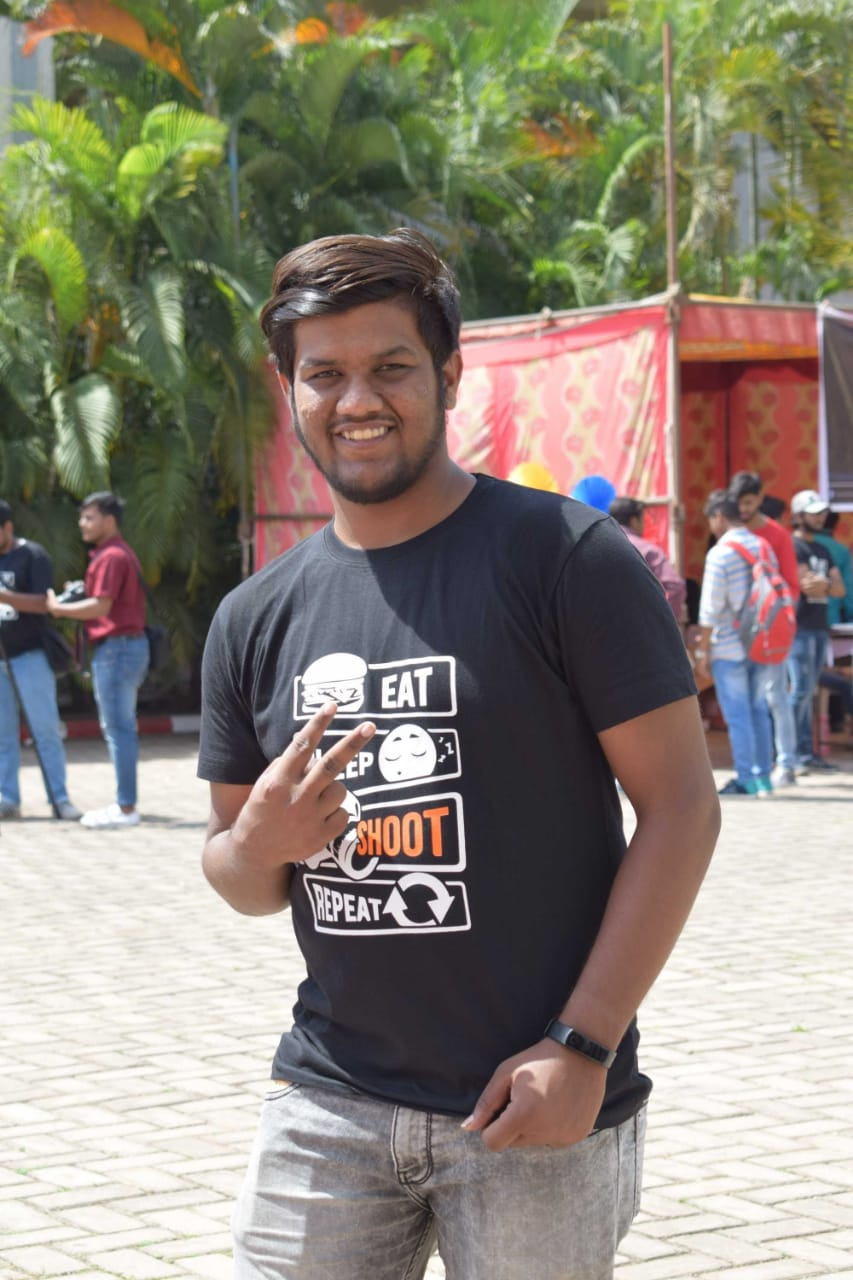
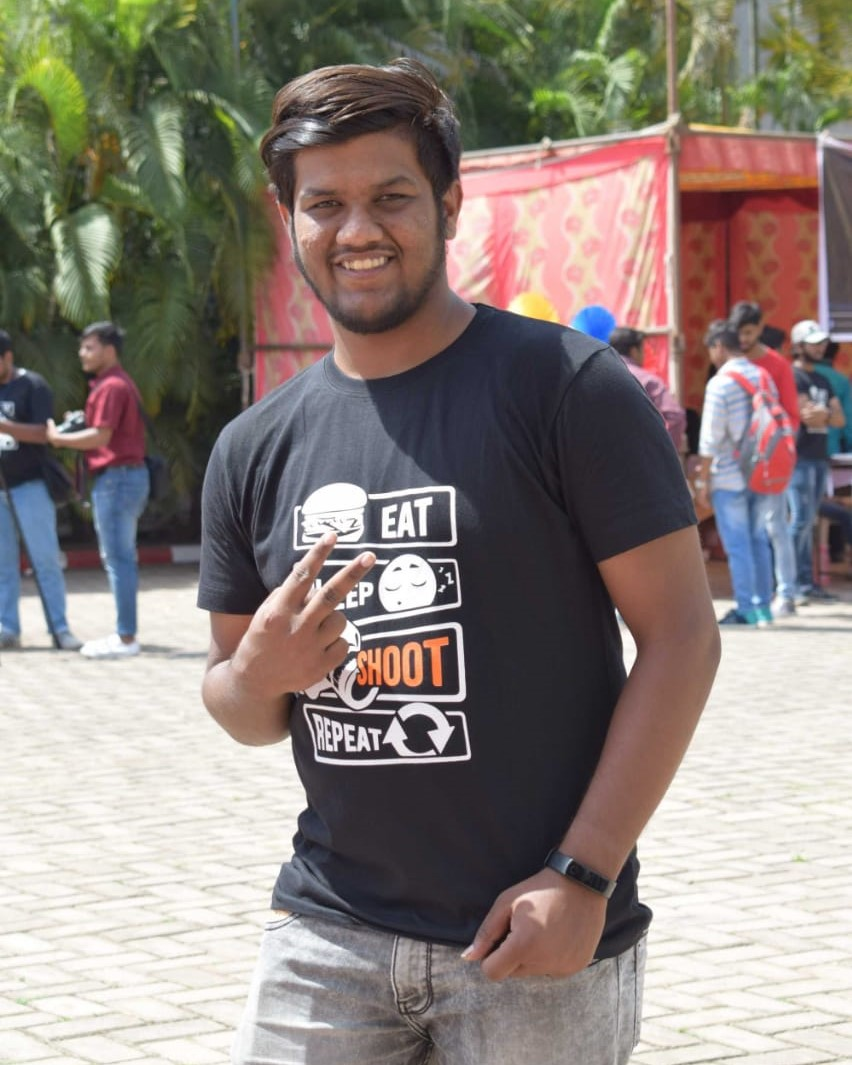
made images responsive of about component

diff --git a/src/components/AboutUsComponents/AboutUsComponent.js b/src/components/AboutUsComponents/AboutUsComponent.js
@@ -38,7 +38,7 @@ function About(props) {
               <img
                 src="assets/images/logo.png"
                 height="150"
-                width="280"
+                width="260"
                 alt="Technohub"
               />
             </div>
@@ -72,9 +72,8 @@ function About(props) {
             <div className="col-lg-4 col-sm-6">
               <img
                 src="assets/images/aboutus_img/DSC_2055.jpg"
+                className="img-fluid" 
                 alt=""
-                height="400px"
-                width="350px"
               />
 
               <div className="single_industries_text">
@@ -94,8 +93,7 @@ function About(props) {
               <img
                 src="assets/images/aboutus_img/DSC_0733_3.jpg"
                 alt="Sachet Sabarad"
-                height="400px"
-                width="350px"
+                className="img-fluid"
               />
 
               <div className="single_industries_text">
@@ -124,8 +122,8 @@ function About(props) {
                 <img
                   src="assets/images/aboutus_img/shub.jpeg"
                   alt="Shubham Agrawal"
-                  height="400px"
-                  width="350px"
+                  className="img-fluid" 
+                U
                 />
                 <div className="single_industries_text">
                   <h3>Shubham Agrawal</h3>
@@ -140,8 +138,8 @@ function About(props) {
                 <img
                   src="assets/images/aboutus_img/harsha.jpeg"
                   alt="Harsha Dubey"
-                  height="400px"
-                  width="350px"
+                  className="img-fluid" 
+                U
                 />
                 <div className="single_industries_text">
                   <h3>Harsha Dubey</h3>
@@ -169,8 +167,8 @@ function About(props) {
                 <img
                   src="assets/images/aboutus_img/nir.jpeg"
                   alt="Nirbhay Kumar"
-                  height="400px"
-                  width="350px"
+                  className="img-fluid" 
+                U
                 />
                 <div className="single_industries_text">
                   <h3>Nirbhay Kumar</h3>
@@ -186,8 +184,8 @@ function About(props) {
                 <img
                   src="assets/images/aboutus_img/Saisha.jpeg"
                   alt="T Saisha"
-                  height="400px"
-                  width="350px"
+                  className="img-fluid" 
+                U
                 />
                 <div className="single_industries_text">
                   <h3>T Saisha</h3>
@@ -202,8 +200,8 @@ function About(props) {
                 <img
                   src="assets/images/aboutus_img/Darshita1.jpeg"
                   alt="Darshita Mahaski"
-                  height="400px"
-                  width="350px"
+                  className="img-fluid" 
+                U
                 />
                 <div className="single_industries_text">
                   <h3>Darshita Mahaski</h3>
@@ -218,8 +216,8 @@ function About(props) {
                 <img
                   src="assets/images/aboutus_img/rishabh.jpeg"
                   alt="Rishabh Deshmukh"
-                  height="400px"
-                  width="350px"
+                  className="img-fluid" 
+                U
                 />
                 <div className="single_industries_text">
                   <h3>Rishabh Deshmukh</h3>
@@ -249,8 +247,8 @@ function About(props) {
                 <img
                   src="assets/images/aboutus_img/agney.jpg"
                   alt="Agney Deshkar"
-                  height="400px"
-                  width="350px"
+                  className="img-fluid" 
+                U
                 />
                 <div className="single_industries_text">
                   <h3>Agney Deshkar</h3>
@@ -280,8 +278,8 @@ function About(props) {
                 <img
                   src="assets/images/aboutus_img/shubharangshu.jpg"
                   alt="Shubharangshu"
-                  height="400px"
-                  width="350px"
+                  className="img-fluid" 
+                U
                 />
                 <div className="single_industries_text">
                   <h3>Shubharangshu Chakraborty </h3>
@@ -297,8 +295,8 @@ function About(props) {
                 <img
                   src="assets/images/aboutus_img/arpit.jpg"
                   alt="Arpit Sahu"
-                  height="400px"
-                  width="350px"
+                  className="img-fluid" 
+                U
                 />
                 <div className="single_industries_text">
                   <h3>Arpit Sahu </h3>
@@ -314,8 +312,8 @@ function About(props) {
                 <img
                   src="assets/images/aboutus_img/Suchi.jpg"
                   alt="Shuchi Agrawal"
-                  height="400px"
-                  width="350px"
+                  className="img-fluid" 
+                U
                 />
                 <div className="single_industries_text">
                   <h3>Shuchi Agrawal</h3>
@@ -331,8 +329,8 @@ function About(props) {
                 <img
                   src="assets/images/aboutus_img/kartikey.jpg"
                   alt=""
-                  height="400px"
-                  width="350px"
+                  className="img-fluid" 
+                U
                 />
                 <div className="single_industries_text">
                   <h3>Kartikey Rawat </h3>
@@ -361,8 +359,8 @@ function About(props) {
                 <img
                   src="assets/images/aboutus_img/aditya.jpg"
                   alt=""
-                  height="400px"
-                  width="350px"
+                  className="img-fluid" 
+                U
                 />
                 <div className="single_industries_text">
                   <h3>Aditya Deshmukh </h3>
@@ -377,8 +375,8 @@ function About(props) {
                 <img
                   src="assets/images/aboutus_img/nitesh.jpg"
                   alt=""
-                  height="400px"
-                  width="350px"
+                  className="img-fluid" 
+                U
                 />
                 <div className="single_industries_text">
                   <h3>Nitesh Bharti</h3>
@@ -393,8 +391,8 @@ function About(props) {
                 <img
                   src="assets/images/aboutus_img/abhishek.jpg"
                   alt=""
-                  height="400px"
-                  width="350px"
+                  className="img-fluid" 
+                U
                 />
                 <div className="single_industries_text">
                   <h3>Abhishek Agrawal</h3>
@@ -409,8 +407,8 @@ function About(props) {
                 <img
                   src="assets/images/aboutus_img/navya.jpg"
                   alt=""
-                  height="400px"
-                  width="350px"
+                  className="img-fluid" 
+                U
                 />
                 <div className="single_industries_text">
                   <h3>Navya Singh</h3>
@@ -425,8 +423,8 @@ function About(props) {
                 <img
                   src="assets/images/aboutus_img/tanmay.jpg"
                   alt=""
-                  height="400px"
-                  width="350px"
+                  className="img-fluid" 
+                U
                 />
                 <div className="single_industries_text">
                   <h3>Tanmay Soni</h3>
@@ -441,8 +439,8 @@ function About(props) {
                 <img
                   src="assets/images/aboutus_img/shubhangi.jpg"
                   alt=""
-                  height="400px"
-                  width="350px"
+                  className="img-fluid" 
+                U
                 />
                 <div className="single_industries_text">
                   <h3>Shubhangi Sharma</h3>
@@ -457,8 +455,8 @@ function About(props) {
                 <img
                   src="assets/images/aboutus_img/kuldeep.jpg"
                   alt=""
-                  height="400px"
-                  width="350px"
+                  className="img-fluid" 
+                U
                 />
                 <div className="single_industries_text">
                   <h3>Kuldeep Patel</h3>
@@ -473,8 +471,8 @@ function About(props) {
                 <img
                   src="assets/images/aboutus_img/aman.jpg"
                   alt=""
-                  height="400px"
-                  width="350px"
+                  className="img-fluid" 
+                U
                 />
                 <div className="single_industries_text">
                   <h3>Aman Mandal</h3>

diff --git a/src/components/HomeComponents/HomeComponent.css b/src/components/HomeComponents/HomeComponent.css
@@ -104,15 +104,7 @@ address {
   font-size: 50px;
 }
 
-.single_industries_text {
-  padding: 33px 15px 40px;
-  background-color: #fff;
-  text-align: center;
-  border: 2px solid #eaebed;
-  border-top: 2px solid #eaebed;
-  -webkit-transition: 1s;
-  transition: 1s;
-}
+
 
 .about_text {
   padding: 20px 0px 0px 0px;
@@ -144,10 +136,6 @@ address {
 
 .services2 {
   padding: 20px 13px 10px 13px;
-}
-
-.btn-primary {
-  margin-right: 50px;
 }
 
 .services3 {

diff --git a/src/components/HeaderComponents/NavbarComponents/NavbarComponent.js b/src/components/HeaderComponents/NavbarComponents/NavbarComponent.js
@@ -67,10 +67,9 @@ class Header extends Component {
               </div>
             </NavbarBrand>
             <Collapse isOpen={this.state.isNavOpen} navbar>
-              <Nav navbar>
+              <Nav navbar onClick={this.toggleNav}>
                 <NavItem>
                   <NavLink
-                    onClick={this.toggleNav}
                     className="nav-link"
                     to="/home"
                   >

diff --git a/src/components/ContactUsComponents/ContactUs.css b/src/components/ContactUsComponents/ContactUs.css
@@ -23,6 +23,10 @@ button {
   font-family: "Inter", sans-serif;
 }
 
+.btn {
+  margin: 10px;
+}
+
 .app {
   width: 400px;
   margin: 0 auto;
@@ -35,6 +39,7 @@ button {
   display: flex;
   flex-direction: column;
   justify-content: center;
+  margin-bottom: 30px;
 }
 
 .form > h1 {
@@ -62,7 +67,7 @@ textarea:focus {
 
 .form > textarea {
   height: 150px;
-  max-width: 400px;
+  max-width: 1400px;
   min-height: 100px;
 }
 

diff --git a/src/components/AboutUsComponents/AboutUsStyles.css b/src/components/AboutUsComponents/AboutUsStyles.css
@@ -6,3 +6,14 @@ img {
 .aboutus-container {
   padding-top: 110px;
 }
+
+.single_industries_text {
+  margin: 0px 5px 20px 5px;
+  padding: 20px 15px 20px;
+  background-color: #fff;
+  text-align: center;
+  border: 2px solid #eaebed;
+  border-top: 2px solid #eaebed;
+  -webkit-transition: 1s;
+  transition: 1s;
+}
